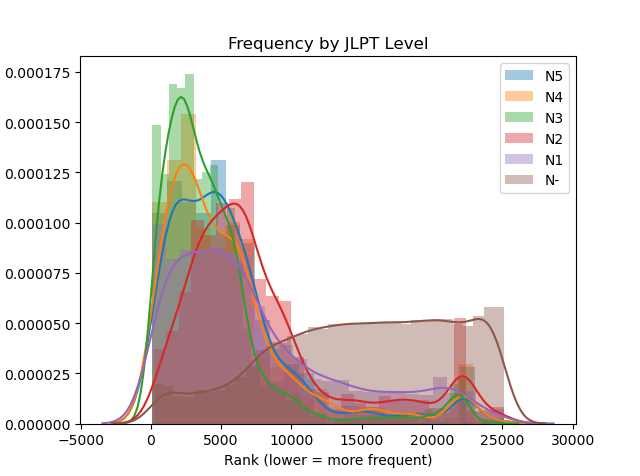
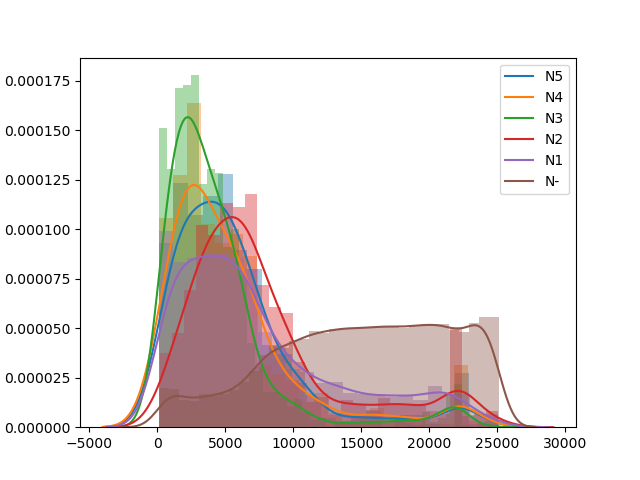
cleaned up code, recalculated jlpt graph

diff --git a/build_jlpt_graph.py b/build_jlpt_graph.py
@@ -1,0 +1,45 @@
+"""Read exported word list from ZKanji and write it to a format usable by
+クロスワード　ギバー."""
+
+import pickle
+
+import matplotlib.pyplot as plt
+import seaborn as sns
+
+from preprocess_zkanji_wordlist import Entry
+
+
+if __name__ == '__main__':
+    INFILE_PATH = './data/processed_zkanji_entries.pickle'
+
+    with open(INFILE_PATH, 'rb') as infile:
+        zkanji_entries = pickle.load(infile)
+
+    zkanji_entries = [zkanji_entries[key] for key in zkanji_entries]
+
+    jlpt_counts = [0, 0, 0, 0, 0, 0]
+    jlpt_ranks = [[], [], [], [], [], []]
+    for entry in zkanji_entries:
+        if entry.jlpt == 'N5':
+            jlpt_counts[0] += 1
+            jlpt_ranks[0].append(entry.rank)
+        elif entry.jlpt == 'N4':
+            jlpt_counts[1] += 1
+            jlpt_ranks[1].append(entry.rank)
+        elif entry.jlpt == 'N3':
+            jlpt_counts[2] += 1
+            jlpt_ranks[2].append(entry.rank)
+        elif entry.jlpt == 'N2':
+            jlpt_counts[3] += 1
+            jlpt_ranks[3].append(entry.rank)
+        elif entry.jlpt == 'N1':
+            jlpt_counts[4] += 1
+            jlpt_ranks[4].append(entry.rank)
+        else:
+            jlpt_counts[5] += 1
+            jlpt_ranks[5].append(entry.rank)
+
+    for ranks in jlpt_ranks:
+        sns.distplot(ranks)
+    plt.legend(['N5', 'N4', 'N3', 'N2', 'N1', 'N-'])
+    plt.show()

diff --git a/simulate_xword_generation.py b/simulate_xword_generation.py
@@ -1,12 +1,22 @@
+"""Simulate all keyboard commands required to generate crosswords using
+クロスワード　ギバー. This allows us to create roughly 4 crossword puzzles per
+minute automatically.
 
-from pynput.keyboard import Key, Controller
+The destination folder must be manually set in クロスワード　ギバー before
+running this module.
+"""
+
+
 import time
+
+from pynput.keyboard import Controller, Key
+
 
 keyboard = Controller()
 
 time.sleep(5)
 
-for i in range(2, 101):
+for i in range(1, 101):  # Filename will be i.xwj
     keyboard.press(Key.ctrl_l)
     time.sleep(0.1)
     keyboard.press('g')

diff --git a/count_unique_words.py b/count_unique_words.py
@@ -1,4 +1,5 @@
-"""Count # unique words in a set of puzzles"""
+"""Count # unique words for each level of puzzles. Also counts number of words
+seen X # times. Finally checks for duplicate puzzles."""
 
 import os
 import json
